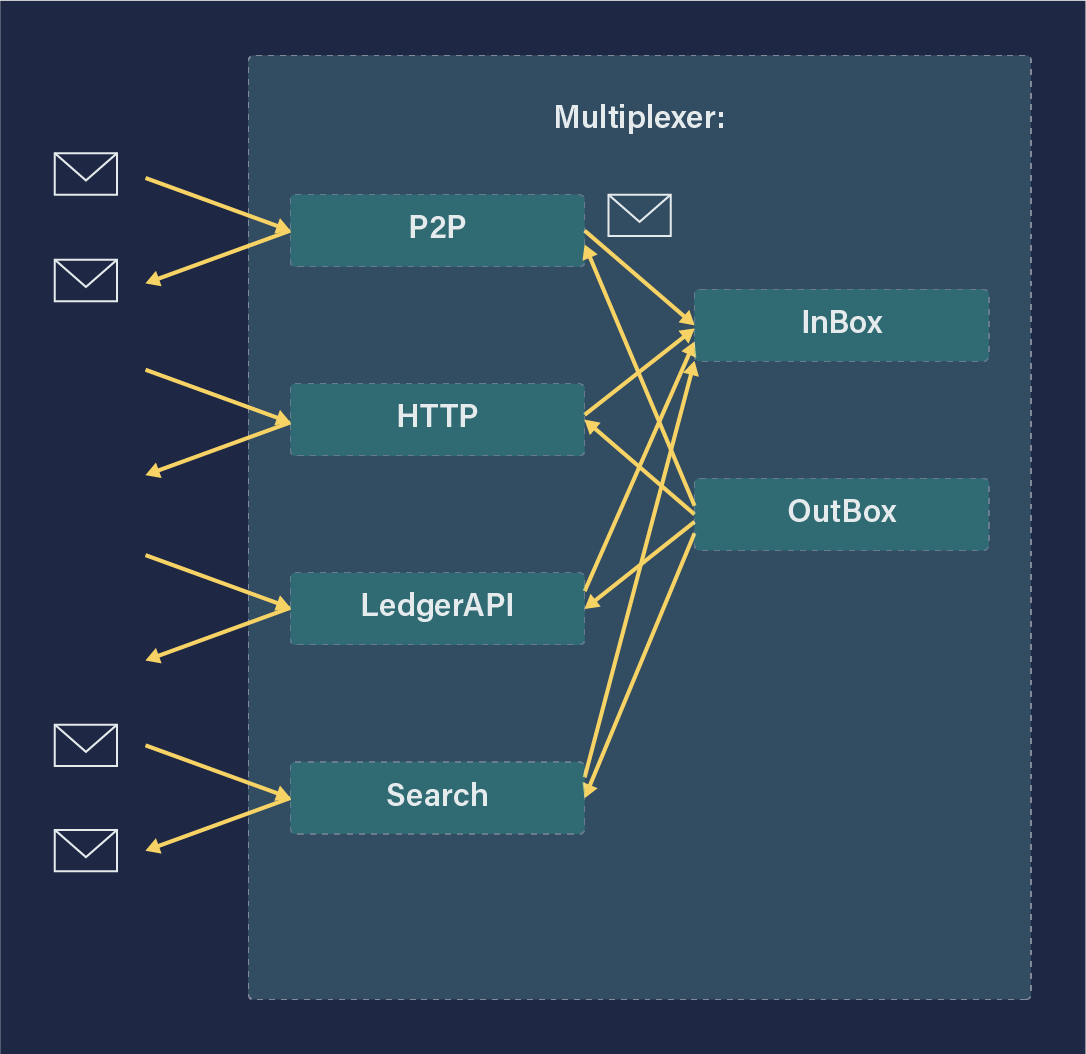
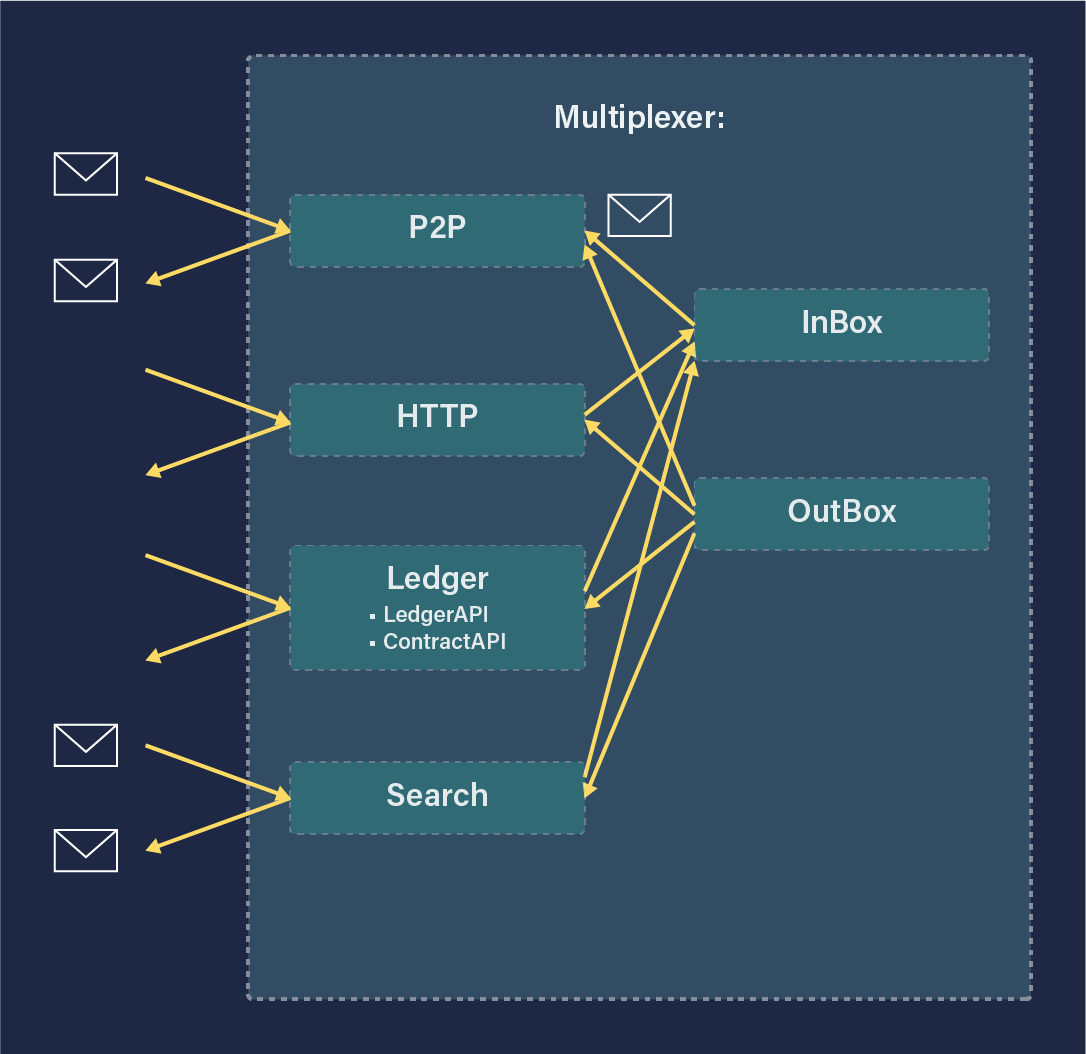
Fix multiplexer images

Changed region(s): [[0.2431, 0.5161, 0.547, 0.6376], [0.0608, 0.6983, 0.1215, 0.7287]]

diff --git a/docs/connection.md b/docs/connection.md
@@ -6,7 +6,7 @@ The framework provides one default connection, called `stub`. It implements an I
 
 An `AEA` can interact with multiple connections at the same time via the <a href="../api/connections/base#connection-objects">`Multiplexer`</a>.
 
-<img src="../assets/multiplexer.jpg" alt="Multiplexer of an AEA" class="center" style="display: block; margin-left: auto; margin-right: auto;width:50%;">
+<img src="../assets/multiplexer.png" alt="Multiplexer of an AEA" class="center" style="display: block; margin-left: auto; margin-right: auto;width:50%;">
 
 It maintains an <a href="../api/multiplexer#inbox-objects">`InBox`</a> and <a href="../api/multiplexer#outbox-objects">`OutBox`</a>, which are, respectively, queues for incoming and outgoing envelopes and their contained messages.
 

diff --git a/docs/core-components-1.md b/docs/core-components-1.md
@@ -52,7 +52,7 @@ An AEA can run `Connections` via a `Multiplexer`.
 
 ### Multiplexer
 
-<img src="../assets/multiplexer.jpg" alt="Multiplexer of an AEA" class="center" style="display: block; margin-left: auto; margin-right: auto;width:50%;">
+<img src="../assets/multiplexer.png" alt="Multiplexer of an AEA" class="center" style="display: block; margin-left: auto; margin-right: auto;width:50%;">
 
 The <a href="../api/multiplexer#multiplexer-objects">`Multiplexer`</a> is responsible for maintaining potentially multiple `Connections`.
 
